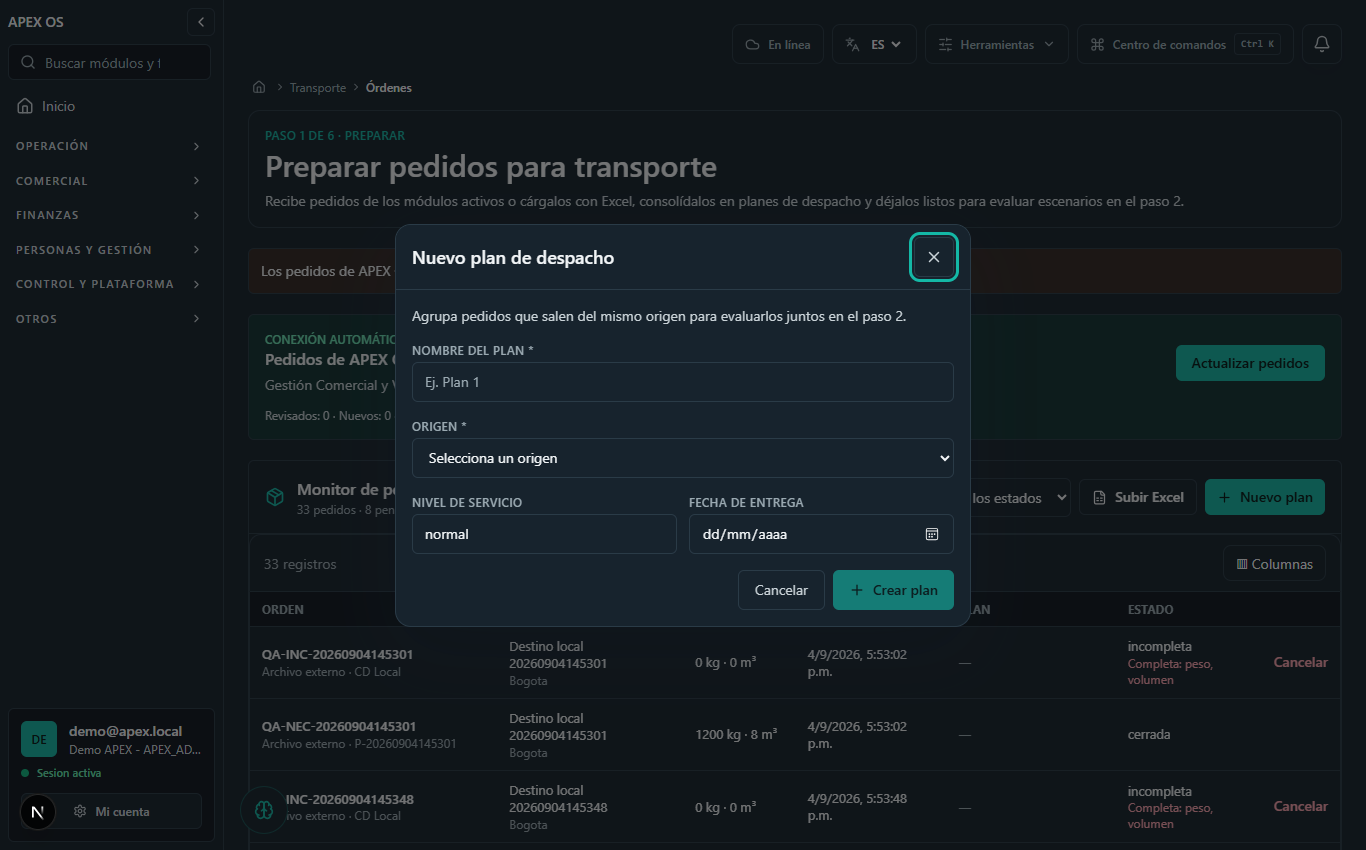
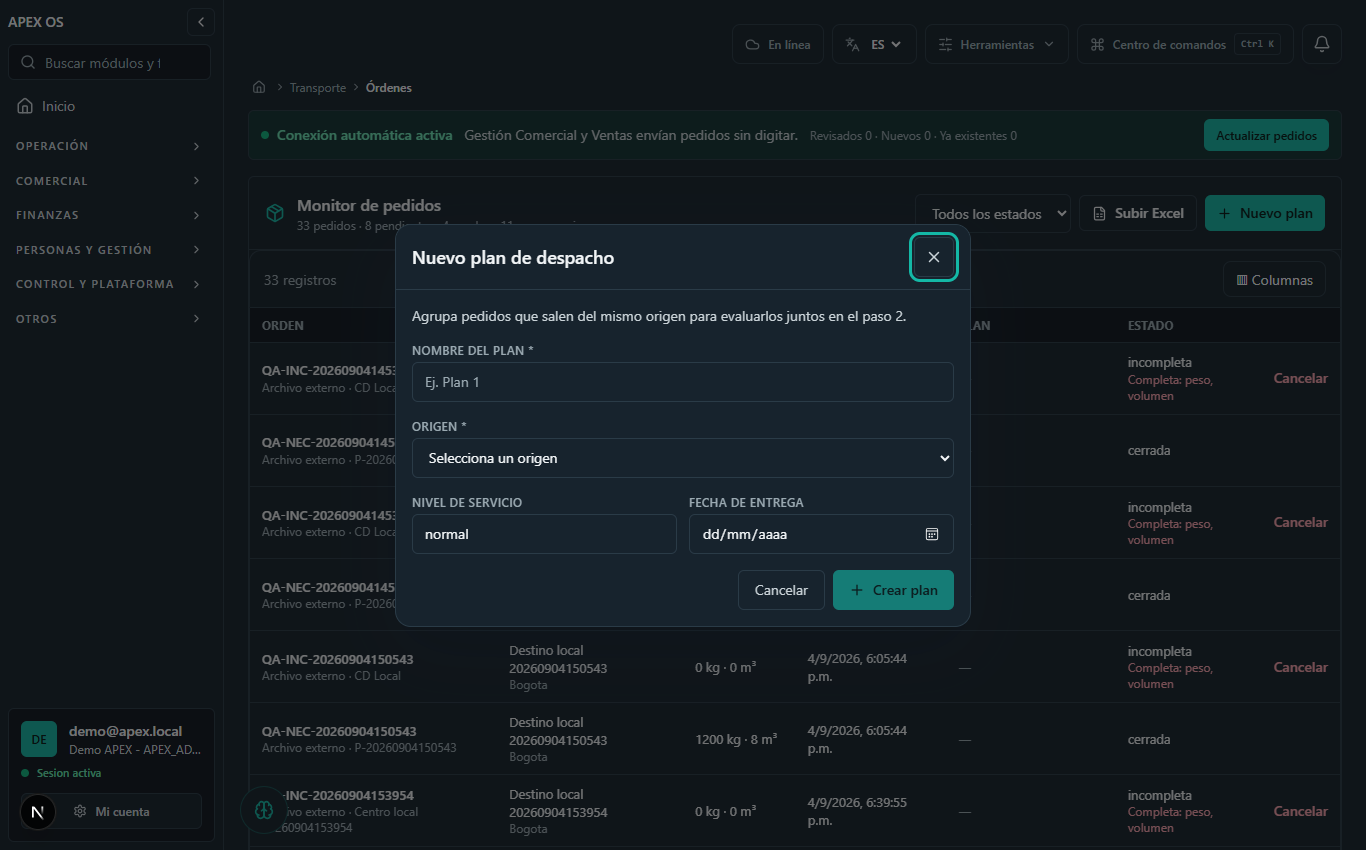
feat(transport): monitor de pedidos como protagonista desde el primer elemento de la pagina
- Se elimina el encabezado decorativo (etiqueta "Paso 1 de 6", titular
  y parrafo descriptivo) que consumia espacio vertical sin aportar valor;
  el breadcrumb ya identifica la pantalla.
- La tarjeta grande de "Conexion automatica" se convierte en franja
  compacta de una sola fila: estado, origenes, conteos revisados/nuevos
  y boton "Actualizar pedidos".
- Los mensajes rutinarios de sincronizacion ("ya estan al dia",
  "Todo esta sincronizado") dejan de pintar banner ambar; solo se
  muestran mensajes cuando hay pedidos nuevos o un error.
- El monitor queda como primer bloque de contenido y la tabla se ve
  completa sin hacer scroll en pantallas estandar.
- Test nuevo que bloquea regresiones: sin <h1> ni "Paso 1 de 6" en la
  pagina de ordenes y con el monitor y "Actualizar pedidos" presentes.
- Verificacion en navegador real 16/16 checks; evidencia actualizada.
- Tests 378/378 (22 del modulo transporte), tsc y eslint sin errores.

diff --git a/apps/web/app/dashboard/transporte/ordenes/page.tsx b/apps/web/app/dashboard/transporte/ordenes/page.tsx
@@ -135,7 +135,7 @@ export default function TransportOrdersPage() {
           const synced = await api<Intake>("/api/v1/transport/orders/sync", { method: "POST" });
           if (active) {
             setIntake(synced);
-            setMessage(synced.created ? `${synced.created} pedidos nuevos llegaron desde APEX OS.` : "Los pedidos de APEX OS ya están al día.");
+            if (synced.created) setMessage(`${synced.created} pedidos nuevos llegaron desde APEX OS.`);
           }
         }
       } catch (error) {
@@ -155,7 +155,7 @@ export default function TransportOrdersPage() {
     try {
       const synced = await api<Intake>("/api/v1/transport/orders/sync", { method: "POST" });
       setIntake(synced);
-      setMessage(synced.created ? `${synced.created} pedidos nuevos recibidos.` : "Todo está sincronizado.");
+      if (synced.created) setMessage(`${synced.created} pedidos nuevos recibidos.`);
       await load();
     } finally {
       setSyncing(false);
@@ -333,28 +333,23 @@ export default function TransportOrdersPage() {
     await load();
   }
   return (
-    <div className="space-y-5">
-      <header>
-        <p className="text-xs font-semibold uppercase tracking-wide text-apex">
-          Paso 1 de 6 · Preparar
-        </p>
-        <h1 className="mt-1 text-3xl font-semibold">Preparar pedidos para transporte</h1>
-        <p className="mt-2 text-sm text-neutral-600">
-          Recibe pedidos de los módulos activos o cárgalos con Excel, consolídalos en planes de despacho y déjalos listos para evaluar escenarios en el paso 2.
-        </p>
-      </header>
+    <div className="space-y-4">
+      {intake?.mode === "connected" ? (
+        <div className="flex flex-wrap items-center gap-x-3 gap-y-1 rounded-md border border-emerald-200 bg-emerald-50 px-3 py-2 text-sm">
+          <span className="inline-flex items-center gap-2 font-semibold text-emerald-800">
+            <span className="h-2 w-2 rounded-full bg-emerald-500" />
+            Conexión automática activa
+          </span>
+          <span className="text-neutral-600">{intake.sources.includes("commercial") ? "Gestión Comercial" : "Ventas"}{intake.sources.length > 1 ? " y Ventas envían" : " envía"} pedidos sin digitar.</span>
+          {intake.reviewed !== undefined ? <span className="text-xs text-neutral-500">Revisados {intake.reviewed} · Nuevos {intake.created || 0} · Ya existentes {intake.existing || 0}</span> : null}
+          <button className="ml-auto inline-flex h-8 items-center rounded-md bg-apex px-3 text-xs font-semibold text-white disabled:opacity-60" disabled={!canWrite || syncing} onClick={() => void syncOrders()} type="button">{syncing ? "Sincronizando…" : "Actualizar pedidos"}</button>
+        </div>
+      ) : null}
       {message ? (
         <div className="rounded-md border border-amber-200 bg-amber-50 p-3 text-sm">
           {message}
         </div>
       ) : null}
-      {intake?.mode === "connected" ? <section className="rounded-md border border-emerald-200 bg-emerald-50 p-4">
-        <div className="flex flex-wrap items-center justify-between gap-3">
-          <div><p className="text-xs font-semibold uppercase text-emerald-800">Conexión automática activa</p><h2 className="font-semibold">Pedidos de APEX OS</h2><p className="mt-1 text-sm text-neutral-700">{intake.sources.includes("commercial") ? "Gestión Comercial" : "Ventas"}{intake.sources.length > 1 ? " y Ventas envían" : " envía"} sus pedidos a Transporte sin volver a digitarlos.</p></div>
-          <button className="rounded-md bg-apex px-4 py-2 text-sm font-semibold text-white disabled:opacity-60" disabled={!canWrite || syncing} onClick={() => void syncOrders()}>{syncing ? "Sincronizando…" : "Actualizar pedidos"}</button>
-        </div>
-        {intake.reviewed !== undefined ? <p className="mt-3 text-xs text-neutral-600">Revisados: {intake.reviewed} · Nuevos: {intake.created || 0} · Ya existentes: {intake.existing || 0}</p> : null}
-      </section> : null}
       <section className="overflow-hidden rounded-md border border-line bg-white">
         <div className="flex flex-wrap items-center justify-between gap-3 border-b border-line p-4">
           <div className="flex items-center gap-3">
